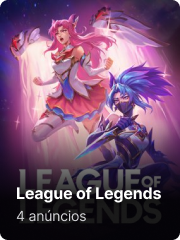
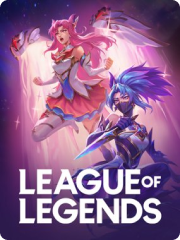
Create homepage
on Web part was made a homepage view

diff --git a/web/src/App.tsx b/web/src/App.tsx
@@ -1,5 +1,6 @@
 import "./styles/main.css";
 import logoImg from "./assets/logo.svg";
+import { MagnifyingGlassPlus } from "phosphor-react";
 export function App() {
   return (
     <div className="max-w-[1344px] mx-auto flex flex-col items-center m-20">
@@ -14,24 +15,73 @@ export function App() {
         está aqui.
       </h1>
       <div className="grid grid-cols-6 gap-6 mt-16">
-        <a href="#">
+        <a href="" className="relative rounded-lg overflow-hidden">
           <img src="/game-1.png" alt="" />
-        </a>{" "}
-        <a href="#">
-          <img src="/game-2.png" alt="" />
-        </a>{" "}
-        <a href="#">
-          <img src="/game-3.png" alt="" />
-        </a>{" "}
-        <a href="#">
-          <img src="/game-4.png" alt="" />
-        </a>{" "}
-        <a href="#">
-          <img src="/game-5.png" alt="" />
-        </a>{" "}
-        <a href="#">
-          <img src="/game-6.png" alt="" />
+          <div className="w-full pt-16 pb-4 px-4 bg-game-gradient absolute bottom-0 left-0 right-0">
+            <strong className="font-bold text-white block">
+              League of legends
+            </strong>
+            <span className="text-zinc-300 text-sm block">4 anuncios</span>
+          </div>
         </a>
+        <a href="#" className="relative rounded-lg overflow-hidden">
+          <img src="/game-2.png" alt="" />
+          <div className="w-full pt-16 pb-4 px-4 bg-game-gradient absolute bottom-0 left-0 right-0">
+            <strong className="font-bold text-white block">DOTA 2</strong>
+            <span className="text-zinc-300 text-sm block">4 anuncios</span>
+          </div>
+        </a>
+        <a href="#" className="relative rounded-lg overflow-hidden">
+          <img src="/game-3.png" alt="" />
+          <div className="w-full pt-16 pb-4 px-4 bg-game-gradient absolute bottom-0 left-0 right-0">
+            <strong className="font-bold text-white block">
+              Counter-Strike Global Offense
+            </strong>
+            <span className="text-zinc-300 text-sm block">4 anuncios</span>
+          </div>
+        </a>
+        <a href="#" className="relative rounded-lg overflow-hidden">
+          <img src="/game-4.png" alt="" />
+          <div className="w-full pt-16 pb-4 px-4 bg-game-gradient absolute bottom-0 left-0 right-0">
+            <strong className="font-bold text-white block">Apex Legends</strong>
+            <span className="text-zinc-300 text-sm block">4 anuncios</span>
+          </div>
+        </a>
+        <a href="#" className="relative rounded-lg overflow-hidden">
+          <img src="/game-5.png" alt="" />
+          <div className="w-full pt-16 pb-4 px-4 bg-game-gradient absolute bottom-0 left-0 right-0">
+            <strong className="font-bold text-white block">Fortnite</strong>
+            <span className="text-zinc-300 text-sm block">4 anuncios</span>
+          </div>
+        </a>
+        <a href="#" className="relative rounded-lg overflow-hidden">
+          <img src="/game-6.png" alt="" />
+          <div className="w-full pt-16 pb-4 px-4 bg-game-gradient absolute bottom-0 left-0 right-0">
+            <strong className="font-bold text-white block">
+              World of Warcraft Shadowlands
+            </strong>
+            <span className="text-zinc-300 text-sm block">4 anuncios</span>
+          </div>
+        </a>
+      </div>
+
+      <div className="pt-1 bg-nlw-gradient self-stretch mt-8 rounded-lg overflow-hidden">
+        <div className="bg-[#2a2634] px-8 py-6  self-stretch rounded-lg">
+          <div className="flex justify-center justify-between items-center">
+            <div>
+              <strong className="text-2xl text-white font-black block">
+                Não encontrou seu duo?
+              </strong>
+              <span className="text-zinc-400">
+                Publique um anuncio para encontrar novos players !
+              </span>
+            </div>
+            <button className="py-3 px-4 bg-violet-500 hover:bg-violet-600 text-white rounded  flex items-center gap-3">
+              <MagnifyingGlassPlus  size={24}/>
+              <span> Publicar anúncio</span>
+            </button>
+          </div>
+        </div>
       </div>
     </div>
   );

diff --git a/web/index.html b/web/index.html
@@ -1,9 +1,16 @@
 <!DOCTYPE html>
 <html lang="en">
   <head>
+    <link rel="preconnect" href="https://fonts.googleapis.com" />
+    <link rel="preconnect" href="https://fonts.gstatic.com" crossorigin />
     <meta charset="UTF-8" />
     <link rel="icon" type="image/svg+xml" href="/vite.svg" />
     <meta name="viewport" content="width=device-width, initial-scale=1.0" />
+
+    <link
+      href="https://fonts.googleapis.com/css2?family=Inter:wght@400;700;900&display=swap"
+      rel="stylesheet"
+    />
     <title>NLW eSports</title>
   </head>
   <body class="bg-[#121214] bg-galaxy bg-cover bg-no-repeat">
